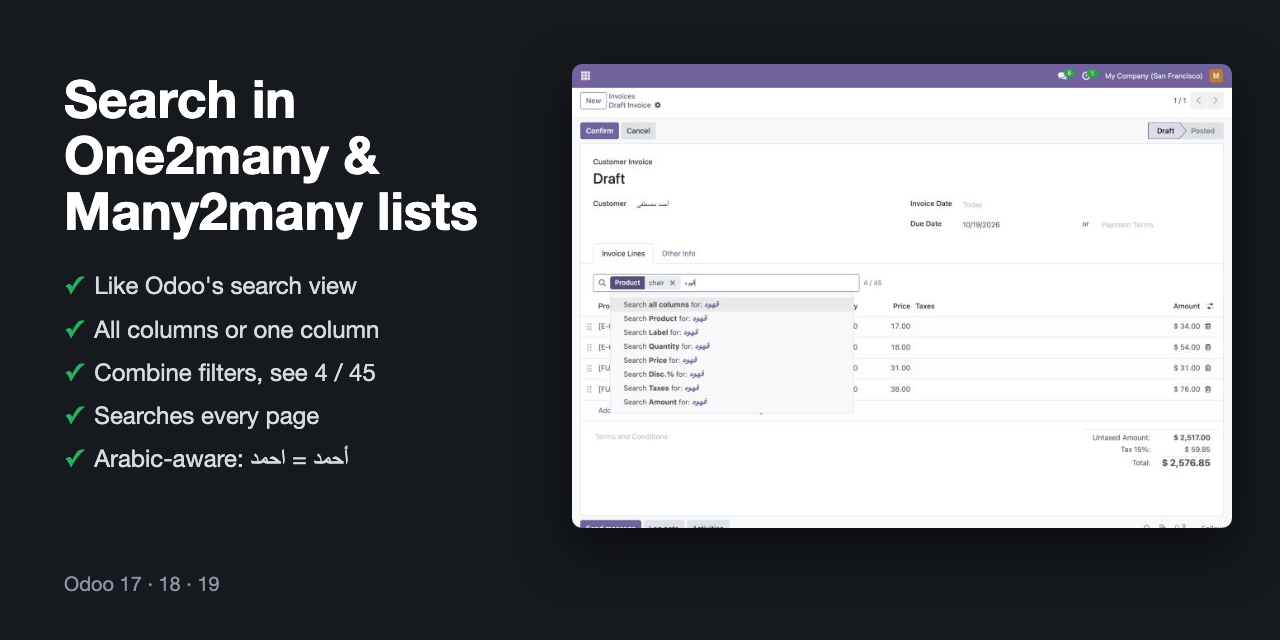
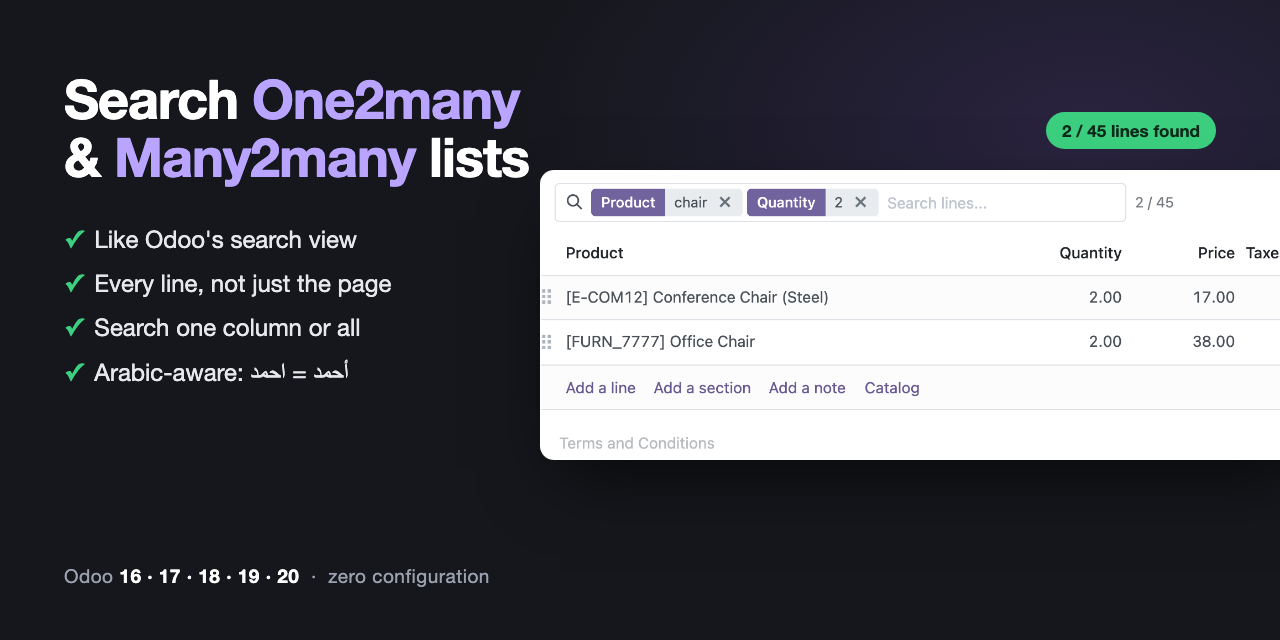
x2many search: store page with a demo GIF, Arabic screenshot, clearer title and summary

diff --git a/mh_x2many_search/static/description/index.html b/mh_x2many_search/static/description/index.html
@@ -1,43 +1,93 @@
 <section class="container" style="max-width: 1100px;">
 
-    <div class="text-center my-5">
-        <h1 style="font-weight: 700;">Search in One2many &amp; Many2many Lists</h1>
-        <p class="lead mt-3">A search bar like Odoo's search view, above every list inside a form: invoice lines, order lines, picking moves, BoM components...</p>
+    <div class="text-center mt-5 mb-4">
+        <h1 style="font-weight: 700;">One2many &amp; Many2many Search</h1>
+        <p class="lead mt-3 mb-1">Odoo's search view, above every list inside a form.</p>
+        <p class="text-muted">Find a line in a 300-line sale order, invoice, purchase order or transfer in seconds: by product, label, quantity or any column.</p>
+    </div>
+    <img src="demo.gif" class="img-fluid rounded shadow mb-5 d-block mx-auto" alt="Searching invoice lines by product, then by quantity, then in Arabic"/>
+
+    <div class="row g-4 mb-5">
+        <div class="col-md-4">
+            <div class="h-100 p-4 rounded border">
+                <h5 style="font-weight: 700;">Every line, not just the page</h5>
+                <p class="mb-0 text-muted">The search covers all the lines of the record, also those beyond the first page of a long list.</p>
+            </div>
+        </div>
+        <div class="col-md-4">
+            <div class="h-100 p-4 rounded border">
+                <h5 style="font-weight: 700;">Search one column or all</h5>
+                <p class="mb-0 text-muted">Pick where to search exactly like Odoo's search view: all columns, or Product, Label, Quantity, Taxes...</p>
+            </div>
+        </div>
+        <div class="col-md-4">
+            <div class="h-100 p-4 rounded border">
+                <h5 style="font-weight: 700;">Combine filters</h5>
+                <p class="mb-0 text-muted">Each choice becomes a facet. Values in one column match either one, different columns must all match. See 4 / 45 at a glance.</p>
+            </div>
+        </div>
+        <div class="col-md-4">
+            <div class="h-100 p-4 rounded border">
+                <h5 style="font-weight: 700;">Zero configuration</h5>
+                <p class="mb-0 text-muted">Install and it appears on every one2many and many2many list, in every app. No view to edit, no widget to add.</p>
+            </div>
+        </div>
+        <div class="col-md-4">
+            <div class="h-100 p-4 rounded border">
+                <h5 style="font-weight: 700;">Arabic-aware</h5>
+                <p class="mb-0 text-muted">&#1571;&#1581;&#1605;&#1583; = &#1575;&#1581;&#1605;&#1583;, &#1602;&#1607;&#1608;&#1577; = &#1602;&#1607;&#1608;&#1607;, &#1605;&#1587;&#1578;&#1588;&#1601;&#1609; = &#1605;&#1587;&#1578;&#1588;&#1601;&#1610;, tashkeel ignored, &#1632;&#1633;&#1634; = 012. Users find lines however they type.</p>
+            </div>
+        </div>
+        <div class="col-md-4">
+            <div class="h-100 p-4 rounded border">
+                <h5 style="font-weight: 700;">Safe while editing</h5>
+                <p class="mb-0 text-muted">Lines you add or edit stay visible during a search, and saving the record is not affected.</p>
+            </div>
+        </div>
     </div>
 
-    <h2 class="mt-5 mb-3">Find a line in seconds</h2>
-    <p>
-        Type in the search bar above the lines and pick where to search, exactly like in Odoo's search view:
-        all columns, or one column such as Product, Label or Quantity.
-    </p>
+    <h2 class="mt-5 mb-3">Pick where to search</h2>
+    <p>Type in the bar above the lines and choose a column from the suggestions, or press Enter to search all columns.</p>
     <img src="search_suggestions.png" class="img-fluid rounded shadow mb-4" alt="Search suggestions above the invoice lines"/>
 
-    <h2 class="mt-5 mb-3">Combine filters</h2>
-    <p>
-        Each choice becomes a facet. Two values in the same column match either one (desk <i>or</i> chair);
-        facets on different columns must all match. The bar shows how many lines match, for example 4 / 45.
-        Remove a facet with its &#215; or with Backspace.
-    </p>
-    <img src="search_filtered.png" class="img-fluid rounded shadow mb-4" alt="Invoice lines filtered on Product: chair"/>
+    <h2 class="mt-5 mb-3">Narrow down with facets</h2>
+    <p>Product contains <i>chair</i> and Quantity is <i>2</i>: the list shows only the matching lines and how many there are. Remove a facet with its &#215; or with Backspace.</p>
+    <img src="search_filtered.png" class="img-fluid rounded shadow mb-4" alt="Invoice lines filtered on Product chair and Quantity 2"/>
 
-    <h2 class="mt-5 mb-3">Features</h2>
-    <ul>
-        <li>Works on every one2many and many2many list in every form, in every app, with no configuration.</li>
-        <li>Searches all the lines, not only the current page: a 300-line order is searched in full.</li>
-        <li>Searches what the list shows: product and partner names, selections, dates, numbers as stored or as displayed (2 or 2.00).</li>
-        <li>Lines you are adding or editing stay visible while a search is active, and saving is not affected.</li>
-        <li>Arabic-aware: &#1571;&#1581;&#1605;&#1583; = &#1575;&#1581;&#1605;&#1583; = &#1573;&#1581;&#1605;&#1583;, &#1602;&#1607;&#1608;&#1577; = &#1602;&#1607;&#1608;&#1607;, &#1605;&#1587;&#1578;&#1588;&#1601;&#1609; = &#1605;&#1587;&#1578;&#1588;&#1601;&#1610;, tashkeel ignored, Arabic digits &#1632;&#1633;&#1634; = 012.</li>
-        <li>Looks native in every theme: it uses the same markup as Odoo's search view.</li>
-        <li>Hide it on one field with <code>options="{'no_search': True}"</code>.</li>
-    </ul>
+    <h2 class="mt-5 mb-3">Arabic search that just works</h2>
+    <p>Typing &#1602;&#1607;&#1608;&#1607; finds &#1602;&#1607;&#1608;&#1577; &#1578;&#1585;&#1603;&#1610;: different spellings of alef, taa marbuta and yaa, tashkeel and Arabic digits are matched.</p>
+    <img src="search_arabic.png" class="img-fluid rounded shadow mb-4" alt="Arabic search in invoice lines"/>
+
+    <h2 class="mt-5 mb-3">Where it works</h2>
+    <div class="row">
+        <div class="col-md-6">
+            <ul>
+                <li>Sale order lines and quotation lines</li>
+                <li>Purchase order lines and RFQ lines</li>
+                <li>Customer invoice and vendor bill lines, journal items</li>
+                <li>Stock moves and detailed operations in transfers</li>
+            </ul>
+        </div>
+        <div class="col-md-6">
+            <ul>
+                <li>Bill of materials components, manufacturing orders</li>
+                <li>Pricelist rules, payment terms, product variants</li>
+                <li>Many2many lists such as the users of a group</li>
+                <li>Any one2many or many2many list of any module, including custom ones</li>
+            </ul>
+        </div>
+    </div>
+    <p class="text-muted">Numbers are matched as stored or as displayed (2 and 2.00), and many2one, selection and date columns are searched by what the list shows. To hide the bar on one field, add <code>options="{'no_search': True}"</code> to it.</p>
 
     <h2 class="mt-5 mb-3">Compatibility</h2>
     <ul>
-        <li>Odoo 17, tested on Community edition.</li>
-        <li>Depends only on the web client (web).</li>
+        <li>This version: Odoo 17, tested on Community edition. Uses only the web client (depends on <code>web</code>).</li>
+        <li>Also available for Odoo 16, 18, 19 and 20.</li>
     </ul>
 
     <h2 class="mt-5 mb-3">Support</h2>
     <p>Questions or problems: contact me through the Odoo Apps store and I will answer within two working days.</p>
+
+    <p class="text-muted small mt-5">one2many search, many2many search, x2many search, search order lines, search invoice lines, filter one2many lines, search in form view lines, line items search, o2m filter, m2m filter</p>
 
 </section>

diff --git a/mh_x2many_search/__manifest__.py b/mh_x2many_search/__manifest__.py
@@ -1,8 +1,9 @@
 {
-    "name": "Search in One2many and Many2many Lists",
-    "summary": "A search bar like Odoo's search view above every one2many and many2many list in forms: "
-    "search all columns or one column, combine filters, Arabic-aware",
-    "version": "17.0.1.0.0",
+    "name": "One2many & Many2many Search | Search Order Lines, Invoice Lines and Any x2many List",
+    "summary": "Search bar like Odoo's search view on every one2many and many2many list: search and filter "
+    "sale order lines, purchase lines, invoice lines, stock moves and BoM lines by product, label, quantity "
+    "or any column. Combine filters, searches all lines, Arabic-aware.",
+    "version": "17.0.1.0.1",
     "category": "Productivity",
     "author": "Mohamed Hossam",
     "license": "OPL-1",
